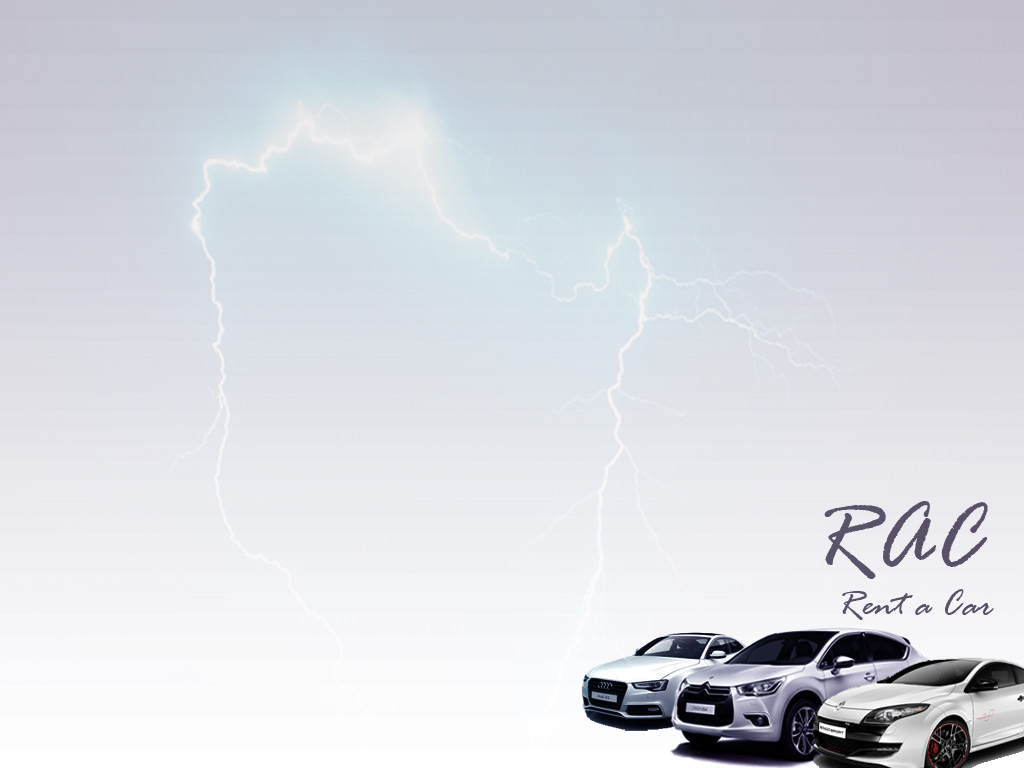
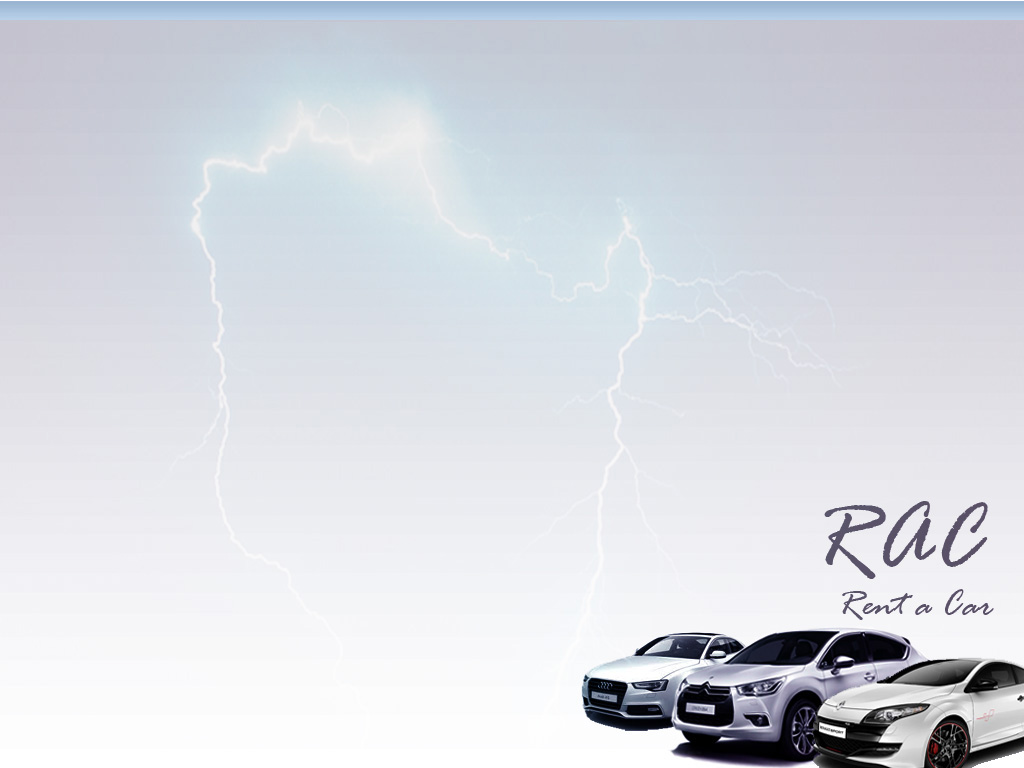
cambios estilo MDI

Changed region(s): [[0.0, 0.0, 1.0, 0.0312]]

diff --git a/AlquilerCoches/AlquilerCoches/MDIPral.Designer.cs b/AlquilerCoches/AlquilerCoches/MDIPral.Designer.cs
@@ -59,6 +59,7 @@
             this.toolTip = new System.Windows.Forms.ToolTip(this.components);
             this.tabControl1 = new System.Windows.Forms.TabControl();
             this.Gestion = new System.Windows.Forms.TabPage();
+            this.TButtonSalir = new System.Windows.Forms.Button();
             this.TLabelFactura = new System.Windows.Forms.Label();
             this.TButtonFactura = new System.Windows.Forms.Button();
             this.label2 = new System.Windows.Forms.Label();
@@ -66,7 +67,6 @@
             this.TButtonVehiculos = new System.Windows.Forms.Button();
             this.TButtonCliente = new System.Windows.Forms.Button();
             this.tabPage1 = new System.Windows.Forms.TabPage();
-            this.TButtonSalir = new System.Windows.Forms.Button();
             this.menuStrip.SuspendLayout();
             this.statusStrip.SuspendLayout();
             this.tabControl1.SuspendLayout();
@@ -75,6 +75,7 @@
             // 
             // menuStrip
             // 
+            this.menuStrip.BackColor = System.Drawing.Color.LightGray;
             this.menuStrip.Items.AddRange(new System.Windows.Forms.ToolStripItem[] {
             this.gestionVehiculosToolStripMenuItem,
             this.gestionVentasToolStripMenuItem,
@@ -286,7 +287,7 @@
             // 
             // Gestion
             // 
-            this.Gestion.BackColor = System.Drawing.SystemColors.Control;
+            this.Gestion.BackColor = System.Drawing.Color.LightGray;
             this.Gestion.BackgroundImageLayout = System.Windows.Forms.ImageLayout.Stretch;
             this.Gestion.Controls.Add(this.TButtonSalir);
             this.Gestion.Controls.Add(this.TLabelFactura);
@@ -301,6 +302,19 @@
             this.Gestion.Size = new System.Drawing.Size(137, 455);
             this.Gestion.TabIndex = 0;
             this.Gestion.Text = "Géstion";
+            // 
+            // TButtonSalir
+            // 
+            this.TButtonSalir.Anchor = System.Windows.Forms.AnchorStyles.Bottom;
+            this.TButtonSalir.Image = global::AlquilerCoches.Properties.Resources.cancel;
+            this.TButtonSalir.ImageAlign = System.Drawing.ContentAlignment.MiddleLeft;
+            this.TButtonSalir.Location = new System.Drawing.Point(22, 415);
+            this.TButtonSalir.Name = "TButtonSalir";
+            this.TButtonSalir.Size = new System.Drawing.Size(85, 23);
+            this.TButtonSalir.TabIndex = 15;
+            this.TButtonSalir.Text = "Salir";
+            this.TButtonSalir.UseVisualStyleBackColor = true;
+            this.TButtonSalir.Click += new System.EventHandler(this.TButtonSalir_Click);
             // 
             // TLabelFactura
             // 
@@ -377,29 +391,16 @@
             this.tabPage1.Location = new System.Drawing.Point(4, 22);
             this.tabPage1.Name = "tabPage1";
             this.tabPage1.Padding = new System.Windows.Forms.Padding(3);
-            this.tabPage1.Size = new System.Drawing.Size(137, 381);
+            this.tabPage1.Size = new System.Drawing.Size(137, 455);
             this.tabPage1.TabIndex = 1;
             this.tabPage1.Text = "Administración";
             this.tabPage1.UseVisualStyleBackColor = true;
-            // 
-            // TButtonSalir
-            // 
-            this.TButtonSalir.Anchor = System.Windows.Forms.AnchorStyles.Bottom;
-            this.TButtonSalir.Image = global::AlquilerCoches.Properties.Resources.cancel;
-            this.TButtonSalir.ImageAlign = System.Drawing.ContentAlignment.MiddleLeft;
-            this.TButtonSalir.Location = new System.Drawing.Point(22, 415);
-            this.TButtonSalir.Name = "TButtonSalir";
-            this.TButtonSalir.Size = new System.Drawing.Size(85, 23);
-            this.TButtonSalir.TabIndex = 15;
-            this.TButtonSalir.Text = "Salir";
-            this.TButtonSalir.UseVisualStyleBackColor = true;
-            this.TButtonSalir.Click += new System.EventHandler(this.TButtonSalir_Click);
             // 
             // MDIPral
             // 
             this.AutoScaleDimensions = new System.Drawing.SizeF(6F, 13F);
             this.AutoScaleMode = System.Windows.Forms.AutoScaleMode.Font;
-            this.BackgroundImage = global::AlquilerCoches.Properties.Resources.rentacar;
+            this.BackgroundImage = global::AlquilerCoches.Properties.Resources.carretera;
             this.BackgroundImageLayout = System.Windows.Forms.ImageLayout.Stretch;
             this.ClientSize = new System.Drawing.Size(765, 527);
             this.Controls.Add(this.tabControl1);

diff --git a/AlquilerCoches/AlquilerCoches/GestionClientesBuscar.Designer.cs b/AlquilerCoches/AlquilerCoches/GestionClientesBuscar.Designer.cs
@@ -49,6 +49,7 @@
             this.TLabelNombre = new System.Windows.Forms.Label();
             this.TLabelDNI = new System.Windows.Forms.Label();
             this.errorProvider1 = new System.Windows.Forms.ErrorProvider(this.components);
+            this.TButtonCerrar = new System.Windows.Forms.Button();
             ((System.ComponentModel.ISupportInitialize)(this.TDataGridViewCliente)).BeginInit();
             this.panel1.SuspendLayout();
             ((System.ComponentModel.ISupportInitialize)(this.errorProvider1)).BeginInit();
@@ -93,9 +94,9 @@
             this.Email,
             this.Nombre,
             this.Apellidos});
-            this.TDataGridViewCliente.Location = new System.Drawing.Point(107, 29);
+            this.TDataGridViewCliente.Location = new System.Drawing.Point(150, 12);
             this.TDataGridViewCliente.Name = "TDataGridViewCliente";
-            this.TDataGridViewCliente.Size = new System.Drawing.Size(833, 209);
+            this.TDataGridViewCliente.Size = new System.Drawing.Size(661, 209);
             this.TDataGridViewCliente.TabIndex = 24;
             // 
             // DNI
@@ -220,21 +221,35 @@
             // 
             this.errorProvider1.ContainerControl = this;
             // 
+            // TButtonCerrar
+            // 
+            this.TButtonCerrar.Location = new System.Drawing.Point(150, 521);
+            this.TButtonCerrar.Name = "TButtonCerrar";
+            this.TButtonCerrar.Size = new System.Drawing.Size(75, 23);
+            this.TButtonCerrar.TabIndex = 37;
+            this.TButtonCerrar.Text = "Cerrar";
+            this.TButtonCerrar.UseVisualStyleBackColor = true;
+            this.TButtonCerrar.Click += new System.EventHandler(this.TButtonCerrar_Click);
+            // 
             // GestionClientesBuscar
             // 
             this.AutoScaleDimensions = new System.Drawing.SizeF(6F, 13F);
             this.AutoScaleMode = System.Windows.Forms.AutoScaleMode.Font;
             this.BackgroundImage = global::AlquilerCoches.Properties.Resources.rentacar;
             this.BackgroundImageLayout = System.Windows.Forms.ImageLayout.Stretch;
-            this.ClientSize = new System.Drawing.Size(985, 576);
+            this.ClientSize = new System.Drawing.Size(894, 608);
+            this.Controls.Add(this.TButtonCerrar);
             this.Controls.Add(this.panel1);
             this.Controls.Add(this.TButtonAlta);
             this.Controls.Add(this.TDataGridViewCliente);
+            this.FormBorderStyle = System.Windows.Forms.FormBorderStyle.None;
             this.MaximizeBox = false;
+            this.MaximumSize = new System.Drawing.Size(894, 608);
             this.MinimizeBox = false;
+            this.MinimumSize = new System.Drawing.Size(894, 608);
             this.Name = "GestionClientesBuscar";
+            this.StartPosition = System.Windows.Forms.FormStartPosition.CenterScreen;
             this.Text = "GestionClientesBuscar";
-            this.Load += new System.EventHandler(this.GestionClientesBuscar_Load);
             ((System.ComponentModel.ISupportInitialize)(this.TDataGridViewCliente)).EndInit();
             this.panel1.ResumeLayout(false);
             this.panel1.PerformLayout();
@@ -265,5 +280,6 @@
         private System.Windows.Forms.Label TLabelNombre;
         private System.Windows.Forms.Label TLabelDNI;
         private System.Windows.Forms.ErrorProvider errorProvider1;
+        private System.Windows.Forms.Button TButtonCerrar;
     }
 }

diff --git a/AlquilerCoches/AlquilerCoches/GestionClientesBuscar.cs b/AlquilerCoches/AlquilerCoches/GestionClientesBuscar.cs
@@ -41,12 +41,7 @@ namespace AlquilerCoches
 
         }
 
-        private void GestionClientesBuscar_Load(object sender, EventArgs e)
-        {
-
-        }
-
-        private void GestionClientesBuscar_Closed(object sender, EventArgs e)
+            private void GestionClientesBuscar_Closed(object sender, EventArgs e)
         {
 
         }
@@ -104,6 +99,11 @@ namespace AlquilerCoches
             else
                 TButtonEliminar.Visible = true;
             
+        }
+
+        private void TButtonCerrar_Click(object sender, EventArgs e)
+        {
+            this.Close();
         }
 
 

diff --git a/AlquilerCoches/AlquilerCoches/MDIPral.cs b/AlquilerCoches/AlquilerCoches/MDIPral.cs
@@ -153,7 +153,7 @@ namespace AlquilerCoches
                 GestionClientesBuscar F4 = new GestionClientesBuscar();
                 F4.MdiParent = this;
                 F4.Show();
-                F4.WindowState = FormWindowState.Maximized;
+              //  F4.WindowState = FormWindowState.Maximized;
             }
         }
 
